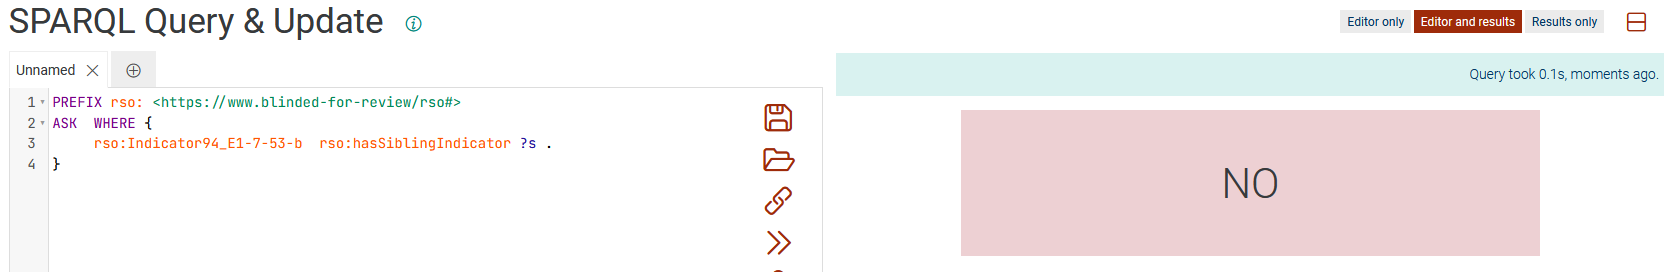
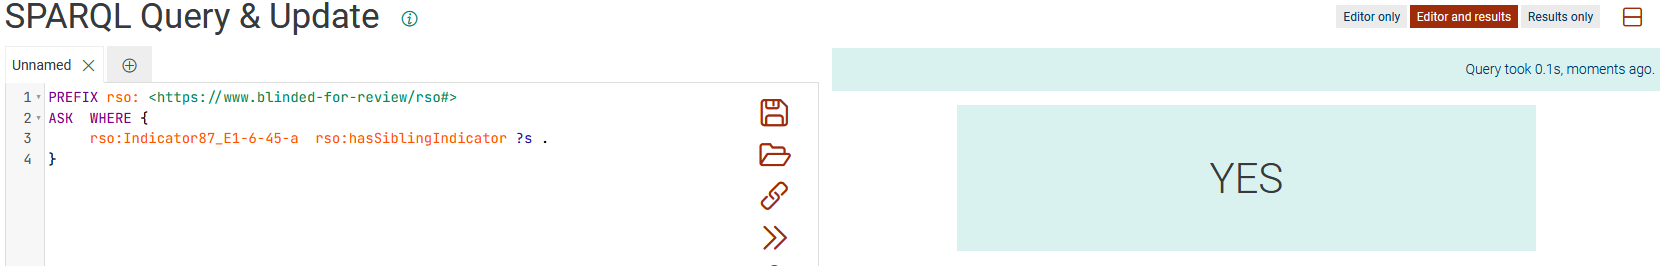
Made some small changes

diff --git a/cqs-and-sparql-queries/readme.md b/cqs-and-sparql-queries/readme.md
@@ -13,7 +13,7 @@
 > 
 > Indicator derived from the ESRS standard [ESRS E1](https://www.efrag.org/Assets/Download?assetUrl=%2Fsites%2Fwebpublishing%2FSiteAssets%2F08%2520Draft%2520ESRS%2520E1%2520Climate%2520Change%2520November%25202022.pdf):
 > 
-> ```<http://www.blinded-for-review/rso/Indicator94_E1-7-53-b>```
+> ```<http://www.blinded-for-review/rso/Indicator87_E1-6-45-a>```
 
 
 
@@ -137,7 +137,7 @@ Result for the ESRS indicator:
 ### CQ14. What information is reported by the organization?
 [SPARQL query](sparql-query-files/cq14-sparql-query.rq)
 
-Result for the ESRS indicator:
+Result for the GRI indicator:
 ![result for CQ14](cq-result-screenshots/cq14-result.png)
 
 ### CQ15. What is the report value of the indicator?
@@ -145,9 +145,6 @@ Result for the ESRS indicator:
 
 Result for the GRI indicator:
 ![result for Indicator1](cq-result-screenshots/cq15-1-result.png)
-
-Result for the ESRS indicator:
-![result for Indicator2](cq-result-screenshots/cq15-2-result.png)
 
 ## Part IV. Use case: Indicator mapping and Report Value Reuse
 ### CQ16. What is the corresponding sustainability topic in ESRS for a topic delineated in GRI?
